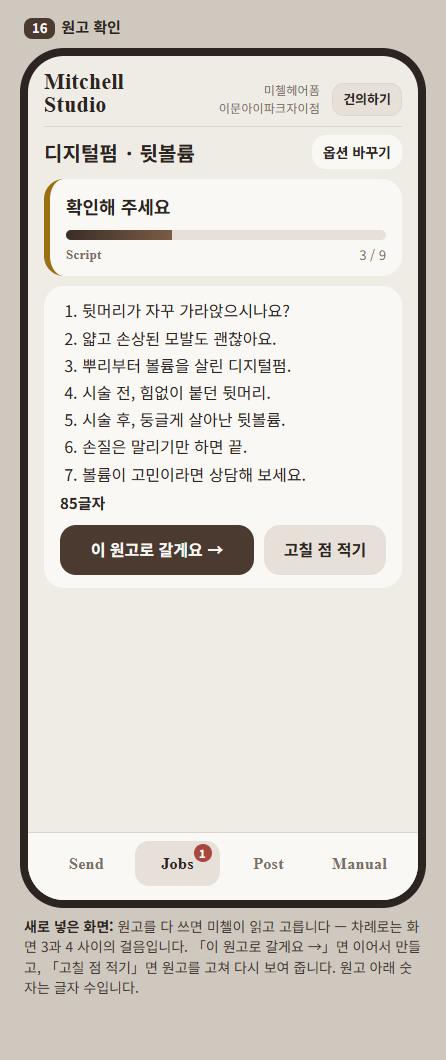
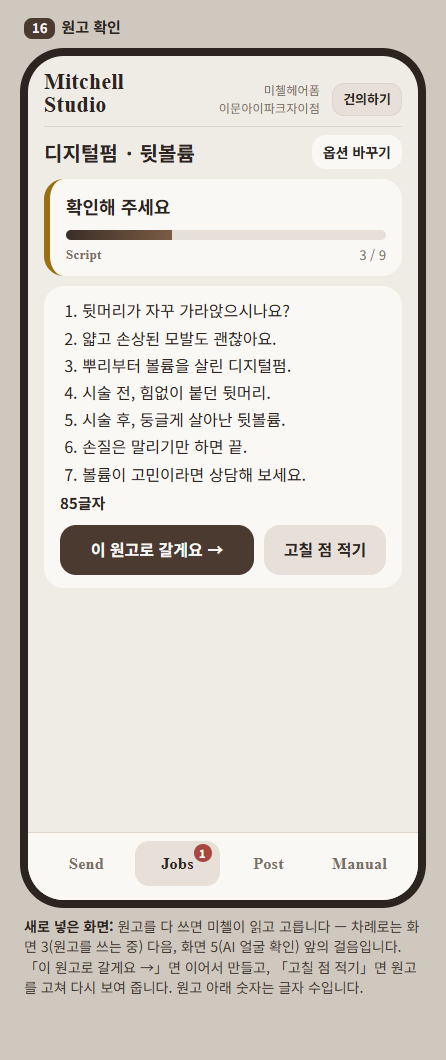
S8_UIUX_REWORK: 덧붙임 7 — 화면 밖 설명만 고침(화면 16의 자리 · 화면 4 · 17의 자리 · 화면 3 · 4의 AI 얼굴 글을 화면 17과 맞춤) · s03 · s04 · s16 다시 찍음 · README · 반환

Changed region(s): [[0.0583, 0.8717, 0.9327, 0.934]]

diff --git a/projects/btsr/roles/rsch/sub/s8_uiux_rework/UIUX_웹앱1차시안_3판_CLAUDE.html b/projects/btsr/roles/rsch/sub/s8_uiux_rework/UIUX_웹앱1차시안_3판_CLAUDE.html
@@ -197,7 +197,7 @@ ol.scr7 { margin:0; padding-left:22px; display:flex; flex-direction:column; gap:
 
 <!-- ───────── 3 Intake — 묻지 않음 ───────── -->
 <div class="shot" id="s3">
-  <div class="hd"><span class="no">3</span>AI 얼굴 사진이 없어도 묻지 않음</div>
+  <div class="hd"><span class="no">3</span>AI 얼굴 — 얼굴이 보이는 사진이 있으면 묻지 않음</div>
   <div class="phone"><div class="scr">
     <div class="brand"><div class="wm">Mitchell<br>Studio</div><div class="br">미첼헤어폼<br>이문아이파크자이점</div><span class="fbk">건의하기</span></div>
     <div class="jt"><span class="ti">디지털펌 · 뒷볼륨</span><span class="gear">옵션 바꾸기</span></div>
@@ -208,7 +208,7 @@ ol.scr7 { margin:0; padding-left:22px; display:flex; flex-direction:column; gap:
     </div>
   </div>
   <div class="tabs"><span>Send</span><span class="on">Jobs</span><span>Post</span><span>Manual</span></div></div>
-  <div class="ft"><b>2판에서 바뀐 것:</b> 설명 글 · 단계 줄 · 나눈 결과 칸을 뺐습니다. AI 얼굴 사진을 안 올려도 미첼에게 묻지 않고 그대로 원고로 넘어갑니다(AI 얼굴은 웹앱이 만들어 나중에 확인받습니다).</div>
+  <div class="ft"><b>2판에서 바뀐 것:</b> 설명 글 · 단계 줄 · 나눈 결과 칸을 뺐습니다. 얼굴이 보이는 시술 후 사진이 있으면 미첼에게 묻지 않고 웹앱이 AI 얼굴을 만들어 나중에 확인받습니다(화면 5) — 그런 사진이 없을 때만 화면 17로 알립니다.</div>
 </div>
 
 <!-- ───────── 4 Intake — 빠진 자료 ───────── -->
@@ -234,7 +234,7 @@ ol.scr7 { margin:0; padding-left:22px; display:flex; flex-direction:column; gap:
     </div>
   </div>
   <div class="tabs"><span>Send</span><span class="on">Jobs<span class="badge">1</span></span><span>Post</span><span>Manual</span></div></div>
-  <div class="ft"><b>2판에서 바뀐 것:</b> 물음 한 줄과 단추 둘만 남겼습니다. 미첼이 고를 때까지 바는 그 자리에 서 있습니다. 「이대로 만들기」면 '시술 전' 장면 없이 만듭니다. AI 얼굴은 여기서도 묻지 않습니다.</div>
+  <div class="ft"><b>2판에서 바뀐 것:</b> 물음 한 줄과 단추 둘만 남겼습니다. 「이대로 만들기」면 '시술 전' 장면 없이 만듭니다. AI 얼굴은 얼굴이 보이는 시술 후 사진이 있으면 묻지 않고 웹앱이 만듭니다 — 없을 때만 화면 17로 알립니다. 화면 4 · 17은 자료를 받은 바로 뒤에 묻는 것이라 차례로는 화면 2와 3 사이입니다.</div>
 </div>
 
 <!-- ───────── 5 Face ───────── -->
@@ -525,7 +525,7 @@ ol.scr7 { margin:0; padding-left:22px; display:flex; flex-direction:column; gap:
     </div>
   </div>
   <div class="tabs"><span>Send</span><span class="on">Jobs<span class="badge">1</span></span><span>Post</span><span>Manual</span></div></div>
-  <div class="ft"><b>새로 넣은 화면:</b> 원고를 다 쓰면 미첼이 읽고 고릅니다 — 차례로는 화면 3과 4 사이의 걸음입니다. 「이 원고로 갈게요 →」면 이어서 만들고, 「고칠 점 적기」면 원고를 고쳐 다시 보여 줍니다. 원고 아래 숫자는 글자 수입니다.</div>
+  <div class="ft"><b>새로 넣은 화면:</b> 원고를 다 쓰면 미첼이 읽고 고릅니다 — 차례로는 화면 3(원고를 쓰는 중) 다음, 화면 5(AI 얼굴 확인) 앞의 걸음입니다. 「이 원고로 갈게요 →」면 이어서 만들고, 「고칠 점 적기」면 원고를 고쳐 다시 보여 줍니다. 원고 아래 숫자는 글자 수입니다.</div>
 </div>
 
 <!-- ───────── 17 얼굴이 보이는 사진이 없을 때 ───────── -->

diff --git a/projects/btsr/roles/rsch/sub/s8_uiux_rework/반환.md b/projects/btsr/roles/rsch/sub/s8_uiux_rework/반환.md
@@ -1,6 +1,6 @@
 # 반환 — MITCHELL_STUDIO/BTSR/RSCH/S8_UIUX_REWORK
 
-- 쓴 때: 2026-11-21 15:04 KST · 덧붙임 2를 넣어 고친 때: 2026-11-21 15:17 KST · 덧붙임 3을 넣어 고친 때: 2026-11-21 15:32 KST · 덧붙임 4를 넣어 고친 때: 2026-11-21 15:38 KST · 덧붙임 5를 넣어 고친 때: 2026-11-21 15:43 KST · 덧붙임 6을 넣어 고친 때: 2026-11-21 16:18 KST · 연 이: PRIMARY Paseo a97bebab · 패킷: `OPEN_PACKET.md`(8bd51fa · 덧붙임 d069374 · 덧붙임 2 ed67f92 · 덧붙임 3 7c55ad5 · 덧붙임 4 5363184 · 덧붙임 5 2b3b203 · 덧붙임 6 13a45dd)
+- 쓴 때: 2026-11-21 15:04 KST · 덧붙임 2를 넣어 고친 때: 2026-11-21 15:17 KST · 덧붙임 3을 넣어 고친 때: 2026-11-21 15:32 KST · 덧붙임 4를 넣어 고친 때: 2026-11-21 15:38 KST · 덧붙임 5를 넣어 고친 때: 2026-11-21 15:43 KST · 덧붙임 6을 넣어 고친 때: 2026-11-21 16:18 KST · 덧붙임 7을 넣어 고친 때: 2026-11-21 16:32 KST · 연 이: PRIMARY Paseo a97bebab · 패킷: `OPEN_PACKET.md`(8bd51fa · 덧붙임 d069374 · 덧붙임 2 ed67f92 · 덧붙임 3 7c55ad5 · 덧붙임 4 5363184 · 덧붙임 5 2b3b203 · 덧붙임 6 13a45dd · 덧붙임 7 df8eef2)
 - 낸 것: `UIUX_웹앱1차시안_3판_CLAUDE.html`(화면 17개 · `#s1`…`#s17`) · `s01.png`–`s17.png` · `README.md` · 이 글
 - 바탕: 시안 2판(`sub/s6_uiux_draft/v2/` — 고치지 않음) · 지금 웹앱 `app/webapp/static/app.html`(제품 저장소 로컬 `origin/main` 3072e7e를 `git show`로만 봄)
 - 커밋: 첫 판 29cd237(화면 13개) → 덧붙임을 넣은 판 fc31856(화면 14개) → 덧붙임 2를 넣은 판(화면 2 · 3 · 10만 고침 · 번호 그대로)이 그 다음 커밋
@@ -14,6 +14,7 @@
 | 3 | "보내기가 아니고 Send로 해주세요." | 큰 단추 `Send`. 카드 머리 '다 됨'은 뺌(화면 10 · 11은 바 아래 `Done`). 한글 견줘 보기 뺌. |
 | 4 | "작업 목록 없습니다. 하나씩만하세요. 진행중엔 그냥 프로그레스 바" | 작업 목록 화면 뺌. Jobs = 지금 만드는 한 편. 만드는 중 = 제목 · 하는 일 한 줄 · 바 · 바 아래 단계 이름과 몇째(예: `Voice · Music · Fit · Export` 7 / 9). 진행 기록 · 단계 줄은 모든 화면에서 뺌. 확인이 필요하면 같은 화면에 물음 한 줄 + 단추. |
 | 5 | "도대체 알림 설명화면은 왜 있는건가요?" · 14:59:10 "알림 설정은 따로 메뉴얼로 빼시고요." | 알림 화면 뺌. 화면 밖 설명과 README에 "알림 켜는 법은 Manual 탭" 한 줄. |
+| 덧붙임 7 | (PRIMARY 패킷 덧붙임 7 — 화면 밖 설명만 · 화면 그림 속은 그대로) | **화면 16 밖 설명:** '차례로는 화면 3과 4 사이' → '화면 3(원고를 쓰는 중) 다음, 화면 5(AI 얼굴 확인) 앞'. **화면 4 밖 설명:** '화면 4 · 17은 자료를 받은 바로 뒤에 묻는 것이라 차례로는 화면 2와 3 사이' 한 마디를 넣고, 'AI 얼굴은 여기서도 묻지 않습니다'를 '얼굴이 보이는 시술 후 사진이 있으면 묻지 않고 웹앱이 만듭니다 — 없을 때만 화면 17로 알립니다'로. 자리를 내려고 '미첼이 고를 때까지 바는 그 자리에 서 있습니다' 한 줄은 뺌. **화면 3:** 밖 설명을 같은 뜻으로 맞추고, 그림 밖 제목 줄을 'AI 얼굴 — 얼굴이 보이는 사진이 있으면 묻지 않음'으로. README의 일곱째 · 여덟째 줄을 같은 뜻으로 고치고 '차례로 읽으면' 한 줄을 더함. `s03` · `s04` · `s16` 다시 찍음. 번호 · 그림 속 화면은 그대로. |
 | 덧붙임 6 | 16:14:32 "안올렸으면 알려주기만 하고 확인 받으면 ai 얼굴없이 진행하는게 맞지 않나요" (PRIMARY 패킷 덧붙임 6 · 요청서 003 24번) | **화면 17 '얼굴이 보이는 사진이 없을 때'를 새로 넣음** — 화면 4와 같은 꼴 · 같은 바 자리(`Intake` 2 / 9): 제목 줄 · 현황 「확인해 주세요」 + 바 · 올린 것 작은 그림(시술 후 둘 · 시술 전 하나 · 점선 칸 '얼굴 사진 없음') · 한 줄 「얼굴이 보이는 시술 후 사진이 없어요」 · 단추 「AI 얼굴 없이 갈게요 →」(주)와 「더 보내기」. 화면 속 설명 글 없음. Jobs 탭 빨간 숫자 1. 밖 설명은 패킷 글대로(앞모습을 지어내지 않음 · AI 얼굴 장면과 AI 표시 없이 만들고 화면 5를 건너뜀 · 더 보내면 화면 5에서 확인 · 화면 4와 같은 자리). 화면 7의 밖 설명과 README의 확인을 기다리는 화면 목록을 4 · 5 · 8 · 10 · 16 · 17로. `s17` 찍고 `s07` 다시 찍음. README에 여덟째 줄과 화면 17 그림 줄. 앞 화면 번호(1 – 16)는 그대로. |
 | 덧붙임 5 | 15:27:23 "변경된 기획에 맞춰 시안도 수정요청 하세요." (PRIMARY 패킷 덧붙임 5 · 요구 2.2판 R2.5 · 결정 19 · 요청서 003 19번 라) | **화면 16 '원고 확인'을 새로 넣음** — 화면 5 · 10의 확인 화면 꼴: 제목 줄 · 현황 「확인해 주세요」 + 바(`Script` 3 / 9) · 원고 칸(번호 붙은 일곱 줄 — 지어낸 예시 · 그 아래 글자 수 `85글자`) · 단추 「이 원고로 갈게요 →」(주)와 「고칠 점 적기」. 화면 속 설명 글 없음. Jobs 탭 빨간 숫자 1. 밖 설명에 '차례로는 화면 3과 4 사이'. 화면 7의 밖 설명에서 확인을 기다리는 화면 목록을 4 · 5 · 8 · 10 · 16으로. `s16` 찍고 `s07` 다시 찍음. README에 일곱째 줄과 화면 16 그림 줄. 앞 화면 번호(1 – 15)는 그대로. |
 | 덧붙임 4 | 15:34:04 "그만두기가 아니라 처음부터 하기로 해야 되지 않을까요" · 15:35:45 "네" (PRIMARY 패킷 덧붙임 4 · 요청서 003 18번) | **화면 7:** 「처음부터 시작」 단추를 넣음 — 맨 아래에 글만 있는 가장 약한 꼴(지금 웹앱의 「그만 보내기」와 같은 꼴)로, 잘못 누르지 않게. Send 단추는 흐린 채 그대로. 밖 설명에 '누르면 한 번 더 묻고 · 지금 편을 멈추고 · 올린 것이 그대로 든 Send 화면(화면 15)으로' 한 줄. **화면 9:** 그림 그대로. 밖 설명을 '바로 다시 만듦'에서 'Send 화면으로 돌아감 · 올린 자료와 요청 글 그대로'로 고침. **화면 15(새로):** 켜진 Send 단추 · 올린 것 작은 그림 줄(영상 1 · 사진 3 · 그림마다 × · 끝에 + 칸) · 글이 든 Request · Options. 새 설명 글 없음. 한 번 더 묻는 창은 그리지 않음. `s07` · `s09` · `s15` 찍음. README 여섯째 줄을 18번에 맞춰 고치고 화면 15 그림 줄을 더함. 앞 화면 번호(1 – 14)는 그대로. |
@@ -24,7 +25,7 @@
 ## 뺀 화면 · 번호
 
 2판 6(작업 목록) · 8(휴대폰 알림) · 맨 아래 한글 견줘 보기(`s01_ko` · `s07_ko`)를 뺌. 화면 7 · 15 · 16 · 17은 새로 넣음.
-2판 → 3판: 1→1 · 2→2 · 3→3 · 4→4 · 5→5 · 7→6 · (새) 7 · 9→8 · 10→9 · 11→10 · 12→11 · 13→12 · 14→13 · 15→14 · (새) 15 · (새) 16(차례로는 3과 4 사이) · (새) 17(차례로는 4와 같은 자리).
+2판 → 3판: 1→1 · 2→2 · 3→3 · 4→4 · 5→5 · 7→6 · (새) 7 · 9→8 · 10→9 · 11→10 · 12→11 · 13→12 · 14→13 · 15→14 · (새) 15 · (새) 16(차례로는 3 다음 · 5 앞) · (새) 17(차례로는 4와 같은 자리 — 2와 3 사이).
 
 ## 남긴 ? 표 셋과 풀이
 
@@ -59,13 +60,14 @@
 ## 확인하지 않은 것
 
 - 그림은 윈도우의 화면 없는 Chrome(446×1060)으로 찍음. 아이폰 사파리에서 보지 않음 — 글꼴이 다르게 보일 수 있음.
-- 첫 판 13개 그림은 모두 눈으로 봄(넘침 · 겹침 없음). 덧붙임 뒤 다시 찍은 14개 가운데는 새 화면 7과 끝 화면 14만 다시 봄 — 나머지는 번호만 바뀜. 덧붙임 2로 다시 찍은 셋(`s02` · `s03` · `s10`)과 덧붙임 3으로 다시 찍은 둘(`s07` · `s09`) · 덧붙임 4로 찍은 셋(`s07` · `s09` · `s15`) · 덧붙임 5로 찍은 둘(`s16` · `s07`) · 덧붙임 6으로 찍은 둘(`s17` · `s07`)은 모두 봄. HTML을 넓은 창에서 한꺼번에 펼친 꼴은 찍어 보지 않음.
+- 첫 판 13개 그림은 모두 눈으로 봄(넘침 · 겹침 없음). 덧붙임 뒤 다시 찍은 14개 가운데는 새 화면 7과 끝 화면 14만 다시 봄 — 나머지는 번호만 바뀜. 덧붙임 2로 다시 찍은 셋(`s02` · `s03` · `s10`)과 덧붙임 3으로 다시 찍은 둘(`s07` · `s09`) · 덧붙임 4로 찍은 셋(`s07` · `s09` · `s15`) · 덧붙임 5로 찍은 둘(`s16` · `s07`) · 덧붙임 6으로 찍은 둘(`s17` · `s07`) · 덧붙임 7로 다시 찍은 셋(`s03` · `s04` · `s16`)은 모두 봄. HTML을 넓은 창에서 한꺼번에 펼친 꼴은 찍어 보지 않음.
 - 'n / 9'는 지금 웹앱의 단계 아홉(Send · Intake · Script · Face · Edit · Preview · Voice… · Done · Post)을 센 것. 바가 실제로 어떻게 차는지(단계마다 한 칸인지 · 단계 안에서도 움직이는지)는 정해진 바 없음.
 - 화면 12 · 13의 바에는 단계 이름 · 몇째를 적지 않음 — 고쳐 만들 때 · 규격을 맞출 때 바가 어디서부터 차는지 정해진 바 없음.
 - (덧붙임 3 · 4로 정해짐) 확인을 기다리는 때에는 Send가 막히고, 개발자에게 넘어간 때에는 다시 켜짐. 「처음부터 시작」 뒤는 화면 15. 개발자에게 넘어간 때 그냥 Send 탭을 눌러 본 화면(멈춘 편의 자료가 들어 있는지 · 비어 있는지)은 정해진 바 없어 그리지 않음.
 - 화면 15의 올린 것 꼴: 지금 웹앱에는 '고른 뒤 미리 보는' 꼴이 없음(고르면 바로 보내고, 보내는 중에는 파일 이름 · 크기 · 바 줄만 있음 — `app.html` `drawList`). 그래서 패킷대로 가장 단순한 작은 그림 줄 + × 로 그림. 더하는 길로 끝에 + 칸을 둔 것은 내 읽기('빼고 더해 다시 보낸다'에서) — Send 단추가 이 화면에서 '사진 고르기'가 아니라 '이대로 보내기'가 되는 것도 같은 읽기.
 - 화면 17: 단추 줄은 글이 긴 주 단추를 왼쪽에 넓게 둠(화면 5 · 16의 꼴) — 화면 4는 주 단추가 오른쪽이라 자리가 다름. 넷째 작은 그림 칸의 글 '얼굴 사진 없음'은 화면 4의 '시술 전 없음' 칸에 맞춘 것(내 읽기).
-- 화면 3 · 4의 밖 설명('AI 얼굴 사진을 안 올려도 묻지 않음' · 'AI 얼굴은 여기서도 묻지 않습니다')은 얼굴이 보이는 사진이 있을 때의 이야기로 그대로 둠 — 덧붙임 6이 건드리라 하지 않아 고치지 않았으나, 화면 17과 나란히 읽으면 헷갈릴 수 있음.
+- (덧붙임 7로 맞춤) 화면 3 · 4의 밖 설명과 화면 3의 제목 줄을 화면 17과 같은 뜻으로 고침. 다만 **화면 4의 그림 속 넷째 칸 'AI 얼굴 만들 예정'**은 그림 속이라 그대로임 — 얼굴이 보이는 사진이 있는 경우의 그림으로 읽으면 맞음.
+- README의 '차례로 읽으면: 1 → 2 → (4 · 17) → 3 → 16 → 5 → 6 → 10' 한 줄은 덧붙임 5 · 7의 자리 글과 바의 몇째(2 · 3 · 4 · 7 · 8 / 9)를 이어 내가 적은 것 — 화면 7 · 8 · 9 · 11 – 15는 곁가지라 넣지 않음. 기획안 초안의 차례와 맞는지는 대어 보지 않음.
 - 시술 전 사진도 없고 얼굴이 보이는 사진도 없을 때 두 물음이 어떤 차례로 나오는지는 정해진 바 없어 그리지 않음.
 - 화면 16의 원고 꼴: 지금 웹앱의 원고 확인 칸(번호 붙은 줄 목록 + 글자 수 — `app.html` 577–581줄)을 따름. 지금 웹앱에 있는 설명 글 둘("마지막 줄 = 썸네일 문구 3개" · "공백·문장부호 빼고 센 글자 수 …")은 화면 속 설명이라 넣지 않았고, 그래서 **썸네일 문구 줄도 그리지 않음** — 원고 끝에 썸네일 문구 줄이 그대로 붙는지 · 붙으면 ? 표로 풀이를 달지는 정해진 바 없음. 글자 수는 지금 웹앱처럼 공백 · 문장부호를 빼고 센 값(85)이고, 상한(`/N`)은 정해진 값을 몰라 적지 않음.
 - 화면 16의 원고 일곱 줄은 지어낸 예시(손님 · 가게 사실 없음).

diff --git a/projects/btsr/roles/rsch/sub/s8_uiux_rework/README.md b/projects/btsr/roles/rsch/sub/s8_uiux_rework/README.md
@@ -8,10 +8,12 @@
 4. 작업 목록을 없앴습니다 — Jobs에는 지금 만드는 한 편만, 만드는 중에는 하는 일 한 줄과 **프로그레스 바**만 보입니다(결과 칸도 없음). 만드는 동안에는 새로 보내지 못합니다(화면 7).
 5. 알림 설명 화면을 뺐습니다 — 알림 켜는 법은 Manual 탭의 일입니다.
 6. **「처음부터 시작」** 단추를 넣었습니다 — 개발자에게 넘어간 화면(화면 9)과 막힌 Send 화면(화면 7)에. 누르면 한 번 더 묻고 Send 화면으로 돌아가며, 올린 사진 · 영상과 요청 글은 그대로 들어 있습니다(화면 15).
-7. **원고 확인** 화면을 더했습니다(화면 16) — 차례로는 화면 3과 4 사이의 걸음입니다. 미첼의 확인을 기다리는 화면은 4 · 5 · 8 · 10 · 16 · 17입니다.
-8. **얼굴이 보이는 사진이 없을 때** 화면을 더했습니다(화면 17) — 웹앱은 앞모습을 지어내지 않고 미첼에게 알리며, 미첼이 확인하면 AI 얼굴 없이 만듭니다. 차례로는 화면 4와 같은 자리입니다.
+7. **원고 확인** 화면을 더했습니다(화면 16) — 차례로는 화면 3(원고를 쓰는 중) 다음, 화면 5(AI 얼굴 확인) 앞의 걸음입니다. 미첼의 확인을 기다리는 화면은 4 · 5 · 8 · 10 · 16 · 17입니다.
+8. **얼굴이 보이는 사진이 없을 때** 화면을 더했습니다(화면 17) — 웹앱은 앞모습을 지어내지 않고 미첼에게 알리며, 미첼이 확인하면 AI 얼굴 없이 만듭니다. 얼굴이 보이는 사진이 있으면 묻지 않고 웹앱이 AI 얼굴을 만듭니다(화면 3 · 5). 화면 4 · 17은 자료를 받은 바로 뒤에 묻는 것이라 차례로는 화면 2와 3 사이입니다.
 
 화면은 17개입니다(2판에서 둘을 빼고 화면 7 · 15 · 16 · 17을 새로 넣음). 그림 속 작업 · 글 · 사람은 모두 지어낸 예시입니다.
+
+한 편이 막힘 없이 가는 차례로 읽으면: 화면 1 → 2 → (물을 것이 있을 때만 4 · 17) → 3 → 16 → 5 → 6 → 10.
 
 ![화면 1](s01.png)
 
